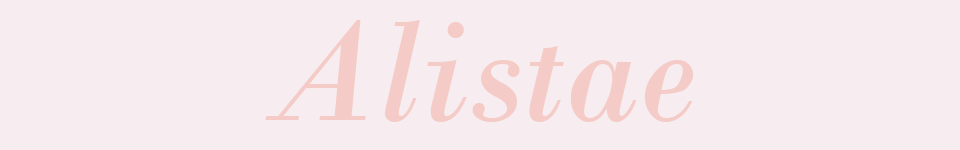
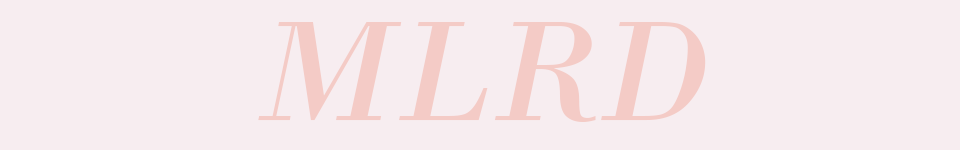
bannerchange & dropdown

Changed region(s): [[0.25, 0.1333, 0.75, 0.8267]]

diff --git a/style.css b/style.css
@@ -38,9 +38,51 @@ a{
 	list-style:none;
 	padding-left:30px;
 	padding-right:30px;
-	padding-top:5px;
-	padding-bottom:5px;
+	padding-top:1px;
+	padding-bottom:1px;
 	font-family:timesnewroman;
 	font-size:40px;
 	font-style:italic;
 }
+
+
+.dropbtn{
+	background-color:#f4cbc6;
+	color:#f7edf0;
+	font-size:40px;
+	border:none;
+	font-family:timesnewroman;
+	font-style:italic;
+}
+
+.dropdown{
+	position:relative;
+	display:inline-block;
+}
+
+
+.dropdown-content{
+	display:none;
+	position:absolute;
+	background-color:#f4cbc6;
+	min-width:160px;
+	z-index:1;
+}
+
+.dropdown-content a{
+	color:#f7edf0;
+	text-decoration:none;
+	display:block;
+	border:solid;
+	border-bottom-width:0px;
+	border-left-width:0px;
+	border-right-width:0px;
+	border-top-width:3px;
+	border-color:#f7edf0;
+}
+
+.dropdown-content a:hover {background-color:#f4cbc6;}
+
+.dropdown:hover .dropdown-content {display:block;}
+
+.dropdown:hover .dropbtn {background-color:#f4cbc6;}

diff --git a/index.html b/index.html
@@ -1,22 +1,30 @@
 <!DOCTYPE html>
 <html>
 <head>
-    <title>Alistae</title>
+    <title>MLRD | Home</title>
     <link rel="stylesheet" href="style.css">
 </head>
 <body>
 	<div class="header">
-		<img src="banner.png">
+		<a href="index.html"><img src="banner.png"></a>
 	</div>
 	<div class="navbar">
 		<ul align="center">
 			<li><a href="index.html">Home</a></li>
-			<li>Gallery</li>
+			<li>		
+			<div class="dropdown">
+			<button class="dropbtn">Categories</button>
+			<div class="dropdown-content">
+				<a href="nature.html">Nature</a>
+				<a href="flowers.html">Flowers</a>
+				<a href="landscapes.html">Landscapes</a>
+			</div>
+		</div></li>
 			<li>Shop</li>
 			<li>About</li>
 			<li>Contact</li>
 		</ul>
 	</div>
-	<h1>hello there</h1>
+	<div class=""
 </body>
 </html
